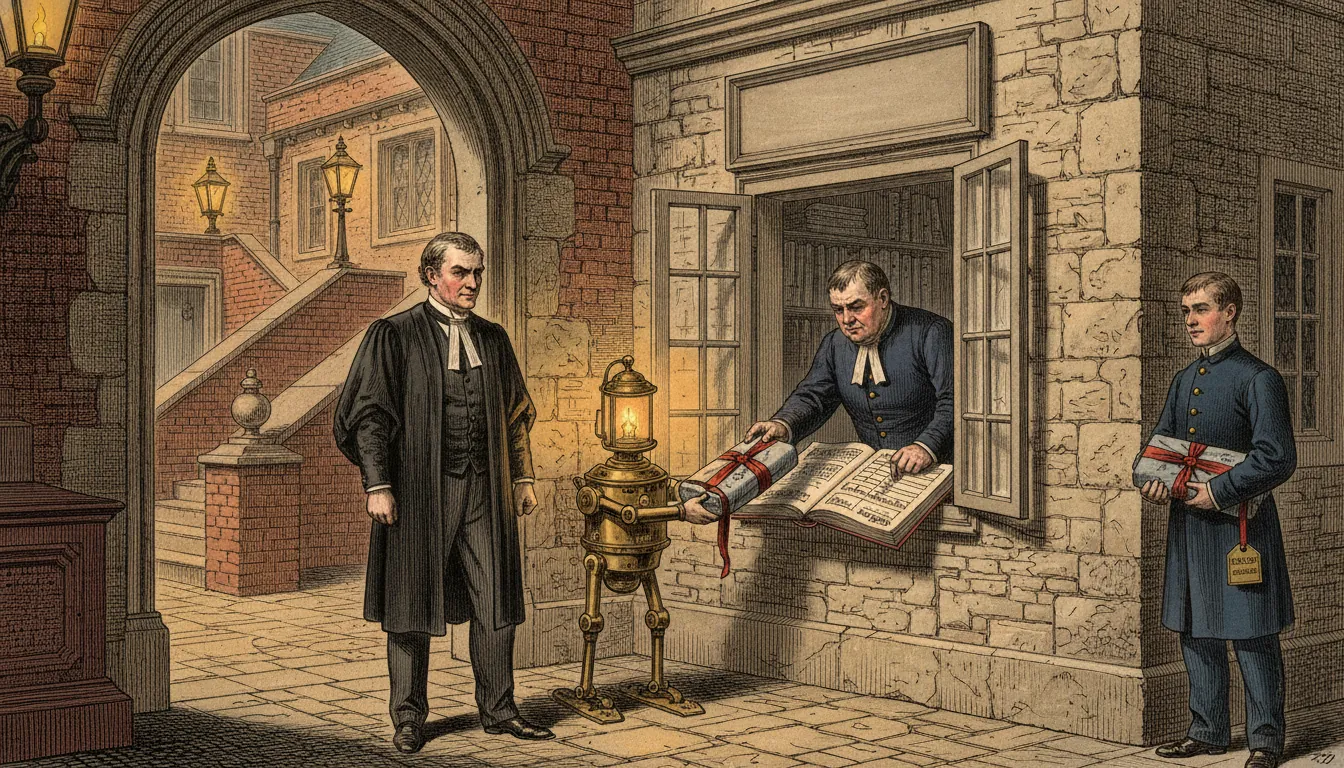
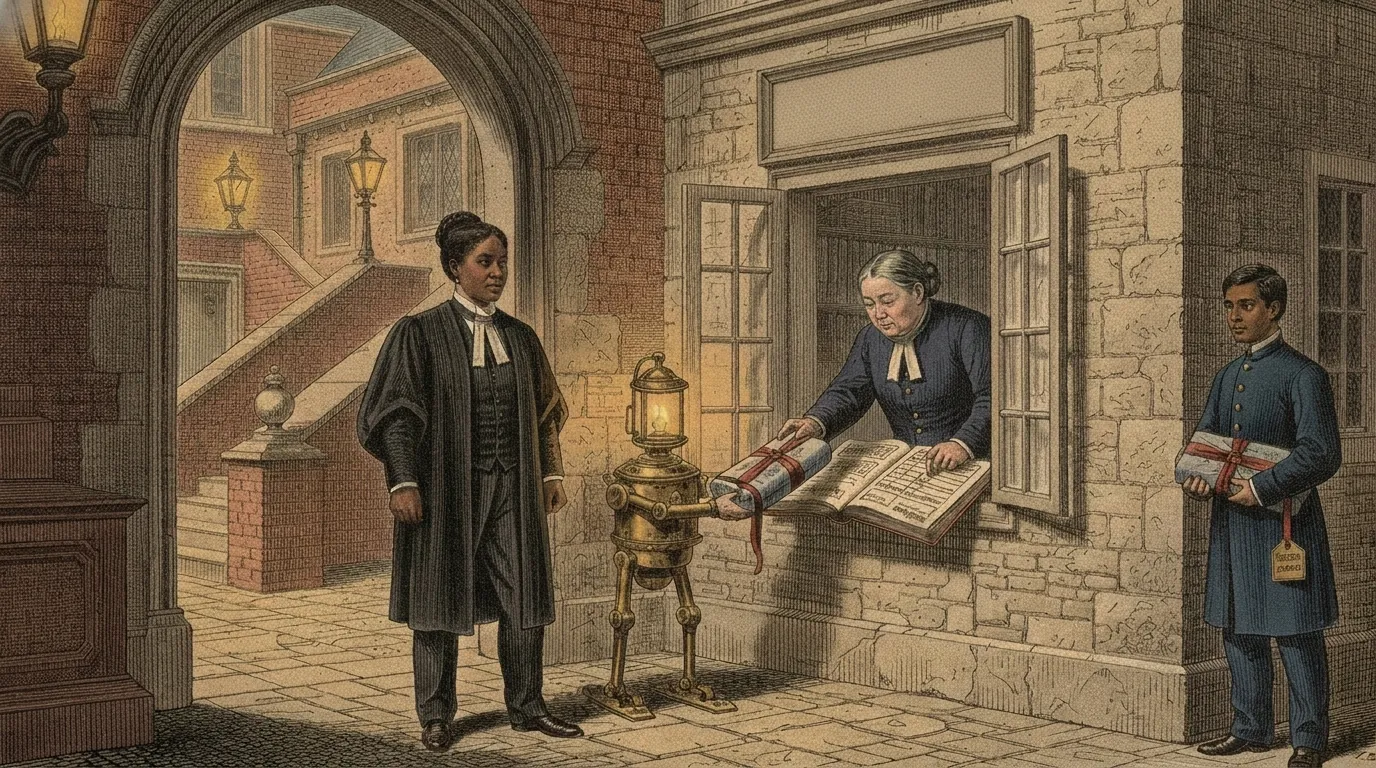
docs(agreement-quarter): redraw the remaining plates with a diverse cast
Redraw the Registry, Clerks' Windows, Chancery, Recorder and Porters'
Lodge plates with the Black woman barrister and a mixed cast, keeping
each scene's style and composition. Give her a barrister's wig in the
Moot, the one scene in court dress. The registrar and porters were
edited with Gemini 3 Pro Image, as the earlier model left them
unchanged. The README and scenes.json record the cast.

Claude-Session: https://claude.ai/code/session_011LWZaJoaq9HFMVceNxCXMS

diff --git a/docs/agreement-quarter/README.md b/docs/agreement-quarter/README.md
@@ -14,3 +14,12 @@ aspect ratio, then saved as WebP. That release asks for the retired
 `gemini-2.5-flash-image-preview` model and sets no aspect ratio, so it was
 run with both patched. A plate whose image is missing shows a numbered
 placeholder.
+
+The people were then redrawn for a diverse cast, keeping each plate's
+style and composition: the recurring barrister is a Black woman, and the
+other figures are of mixed origins (the `cast` and per-scene `people` in
+`scenes.json`). These are edits of the original plates, not new
+generations. Two of them, the registrar and the porters, needed Gemini 3
+Pro Image ("Nano Banana Pro"), which the earlier model refused to change.
+The barrister wears a wig only in the Moot, the one scene in court
+dress.
